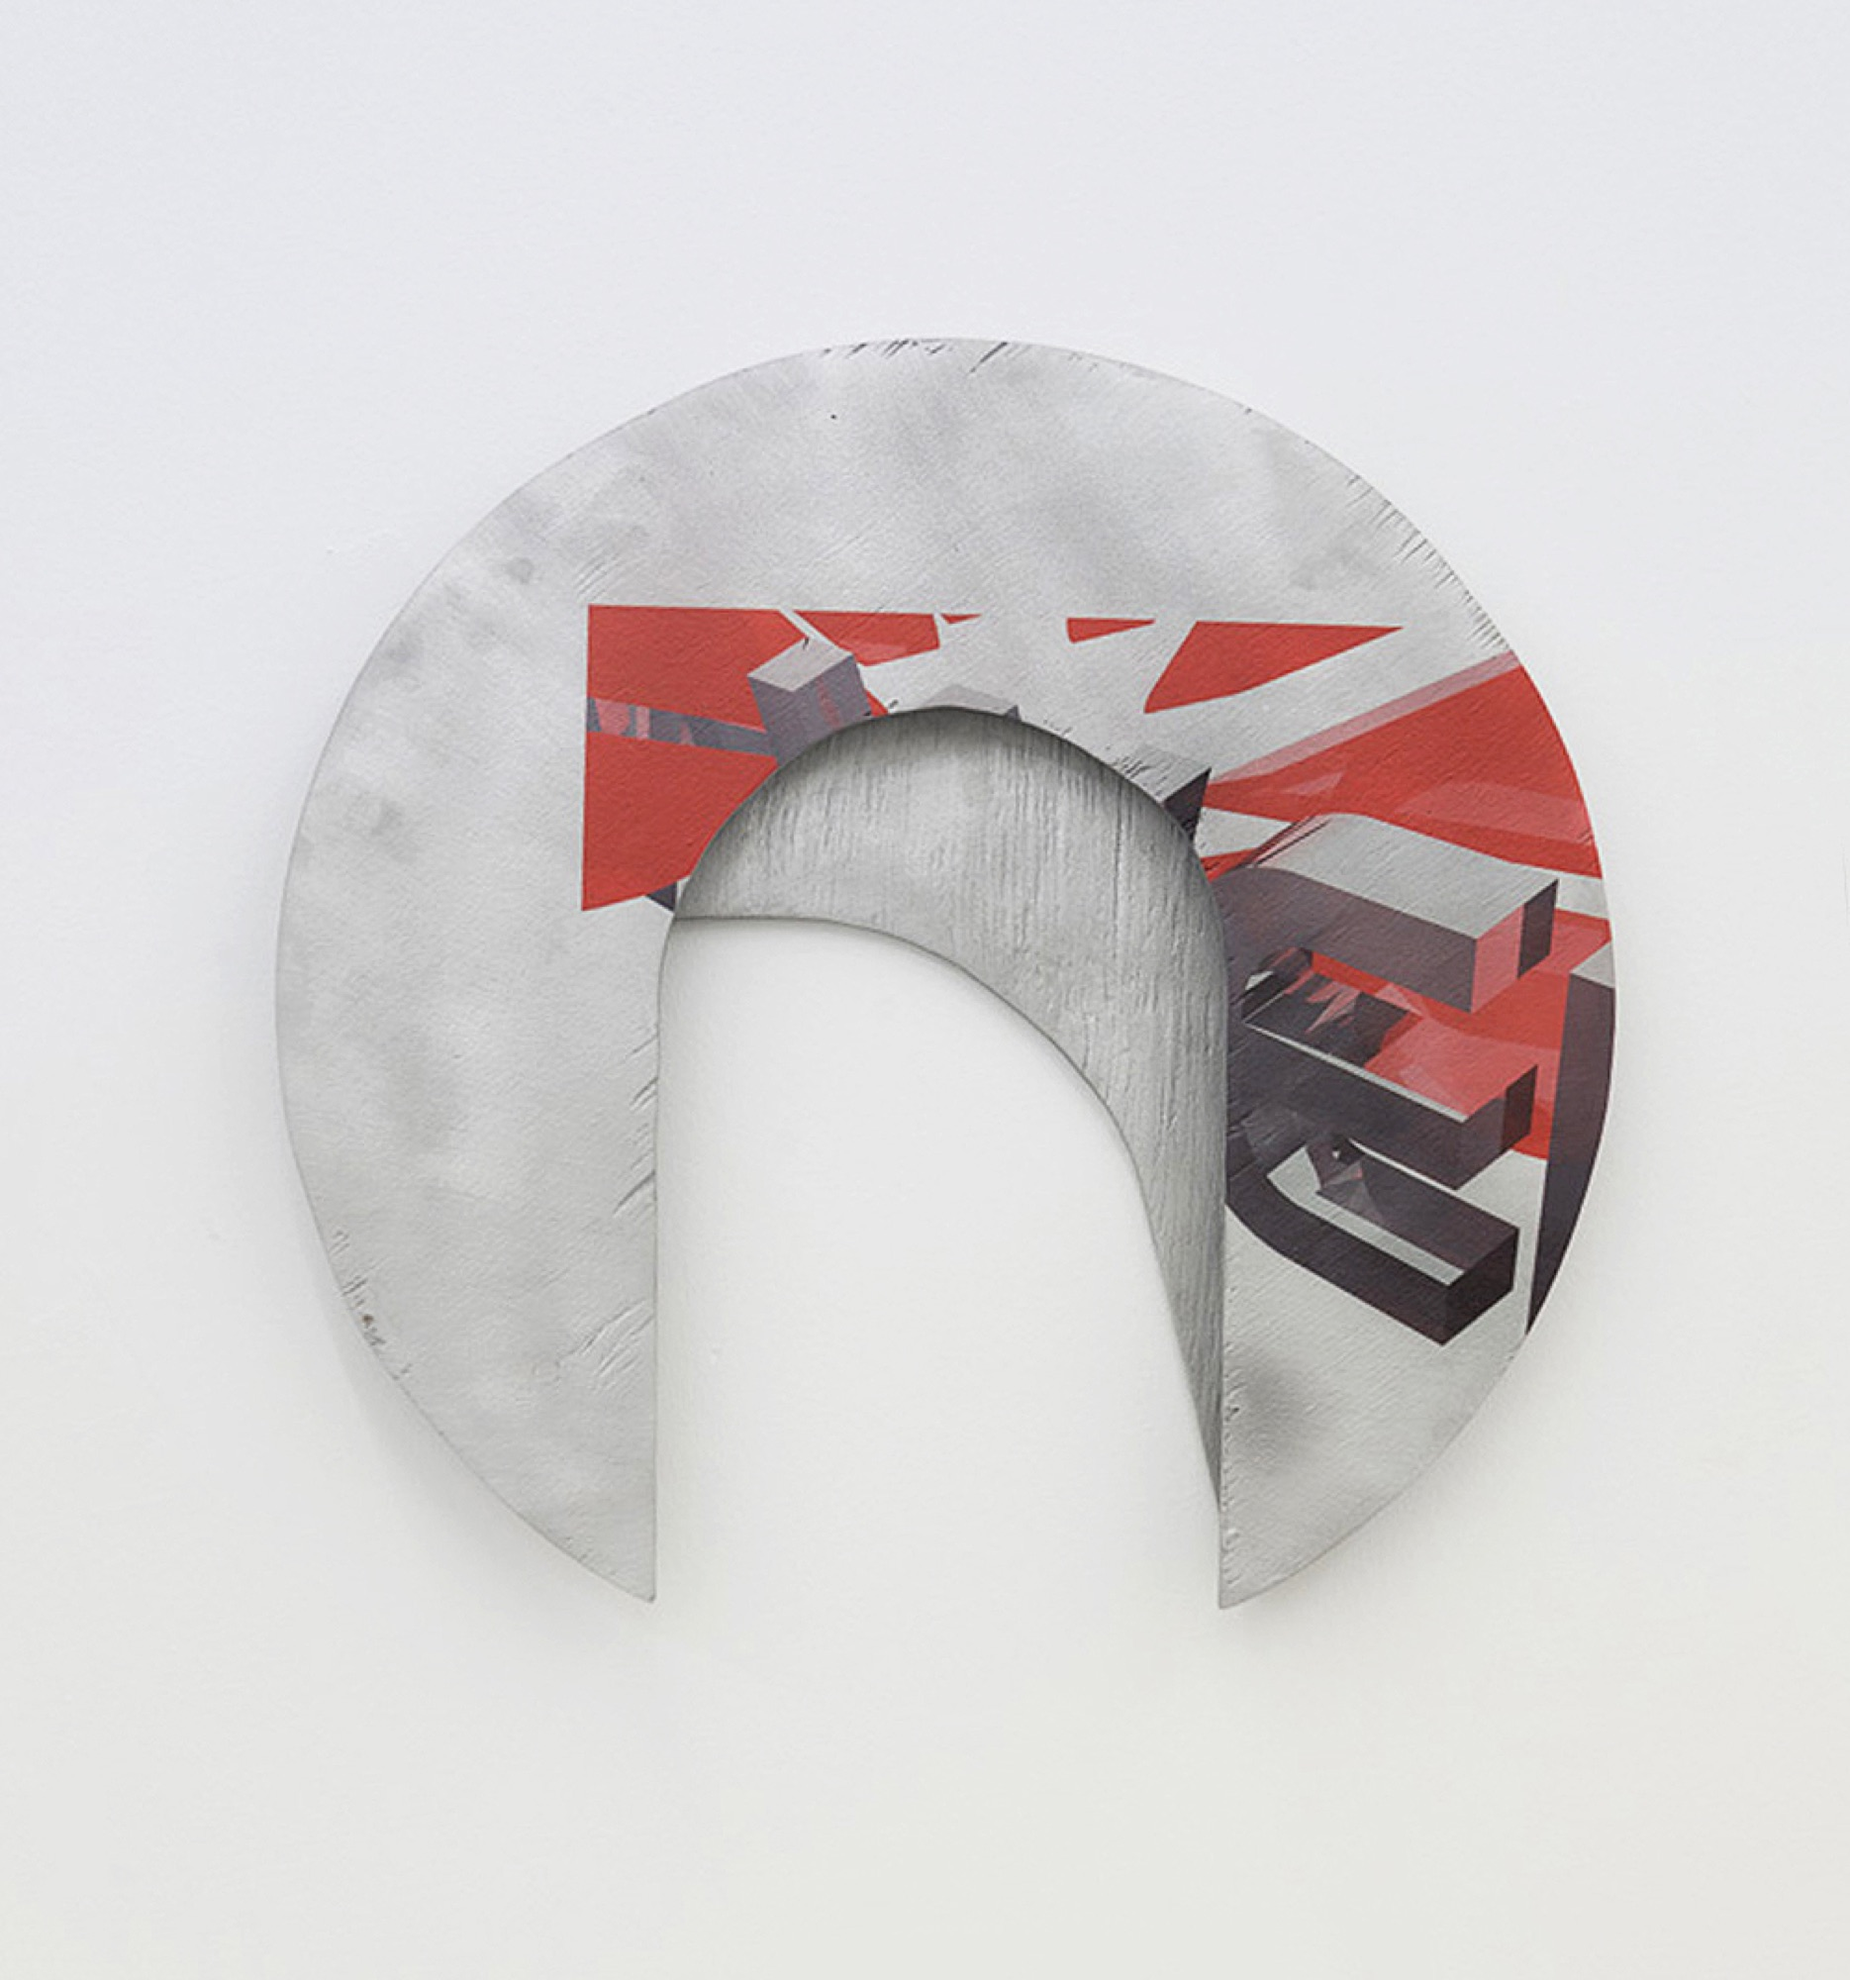
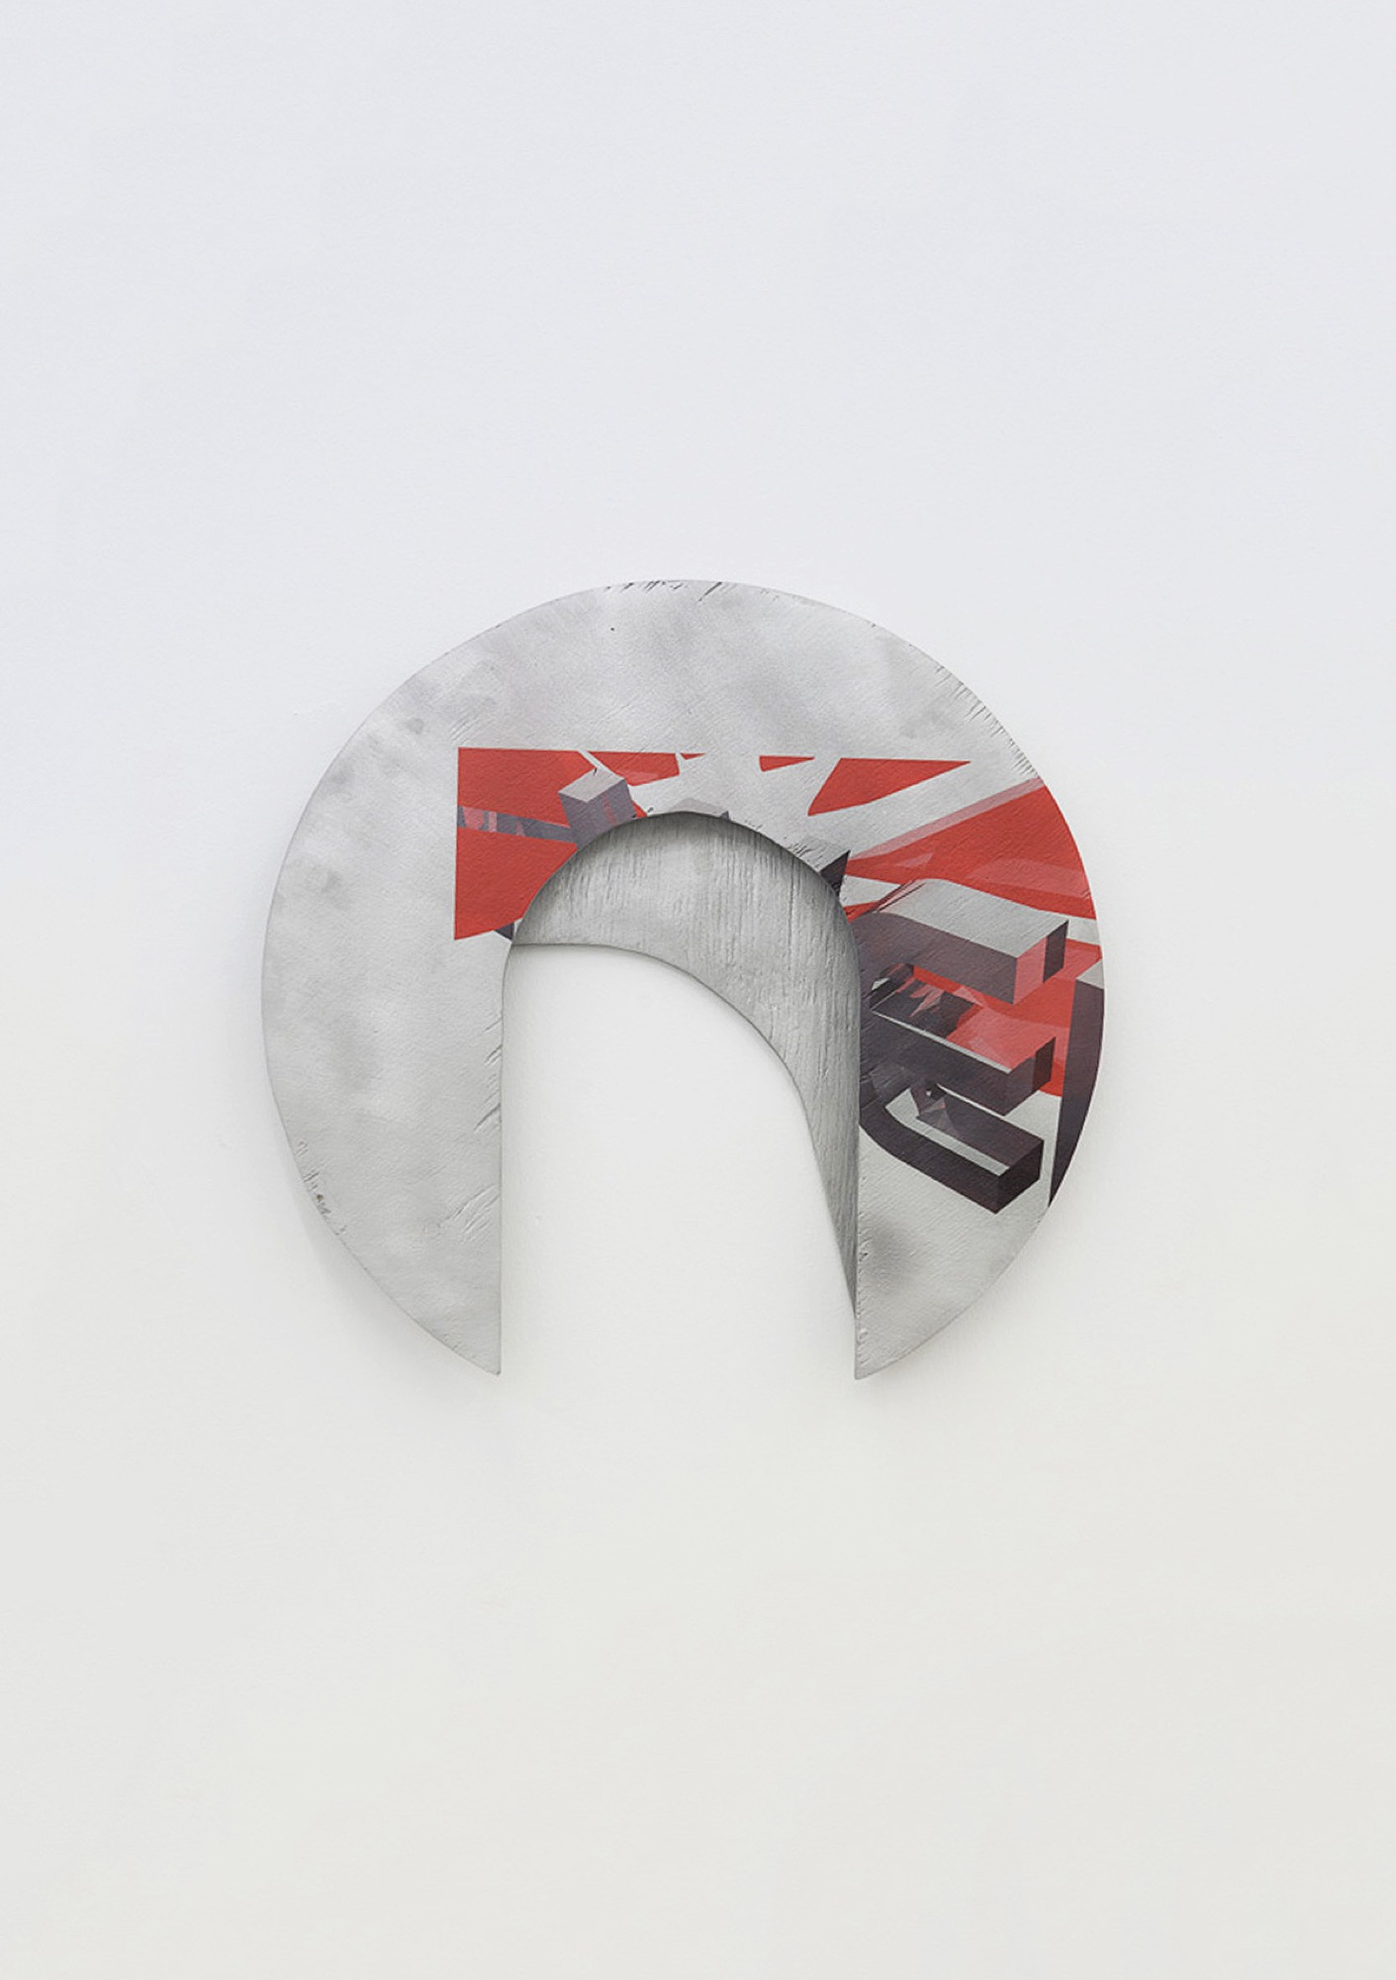
Regenerate 230-07r/08r/10r thumbs; bump cache-bust; move text block up one line
All five 230-xx files now 1200x1700. Thumbnails for 07r, 08r, 10r
regenerated (06r and 09r were done in previous commit). Added ?v=2 to
the three newly updated files.

Also moved the artwork-details text block up one line: bottom 18→33px
on desktop, and removed the mobile-specific translateY(15px) downward
offset (replaced with the same 33px base).

Changed region(s): [[0.1247, 0.155, 0.8731, 0.837]]

diff --git a/index.html b/index.html
@@ -149,7 +149,7 @@
             padding: 0;
             margin-top: 0;
             position: fixed; 
-            bottom: 18px;
+            bottom: 33px;
             right: 18px;
             width: calc(100vw - 36px);
             z-index: 200000 !important;
@@ -233,8 +233,7 @@
 
         @media screen and (max-width: 900px), (hover: none) and (pointer: coarse) {
             .artwork-details {
-                bottom: calc(env(safe-area-inset-bottom, 0px) + 18px);
-                transform: translateY(15px); /* one line-height further down, mobile only */
+                bottom: calc(env(safe-area-inset-bottom, 0px) + 33px);
             }
             .artwork-container img,
             .artwork-container video {
@@ -1208,16 +1207,16 @@
 <!-- cms-item-start -->
             <!-- primary page identifier: data-page -->
             <!-- Tall Size -->
-            <a class="tall" onclick="showArtworkPage(this, 'image')" data-file="230-07r_edit.jpg" data-page="109">
-                <img src="thumbs/230-07r_edit.jpg" alt="Awei | 2013 | uv print on cast aluminium | 30 x 30 cm" loading="lazy">
+            <a class="tall" onclick="showArtworkPage(this, 'image')" data-file="230-07r_edit.jpg?v=2" data-page="109">
+                <img src="thumbs/230-07r_edit.jpg?v=2" alt="Awei | 2013 | uv print on cast aluminium | 30 x 30 cm" loading="lazy">
             </a>
             <!-- cms-item-end -->
 
 <!-- cms-item-start -->
             <!-- primary page identifier: data-page -->
             <!-- Tall Size -->
-            <a class="tall" onclick="showArtworkPage(this, 'image')" data-file="230-10r_edit.jpg" data-page="110">
-                <img src="thumbs/230-10r_edit.jpg" alt="Faro | 2013 | uv print on cast aluminium | 30 x 30 cm" loading="lazy">
+            <a class="tall" onclick="showArtworkPage(this, 'image')" data-file="230-10r_edit.jpg?v=2" data-page="110">
+                <img src="thumbs/230-10r_edit.jpg?v=2" alt="Faro | 2013 | uv print on cast aluminium | 30 x 30 cm" loading="lazy">
             </a>
             <!-- cms-item-end -->
 
@@ -1232,8 +1231,8 @@
 <!-- cms-item-start -->
             <!-- primary page identifier: data-page -->
             <!-- Tall Size -->
-            <a class="tall" onclick="showArtworkPage(this, 'image')" data-file="230-08r_edit.jpg" data-page="112">
-                <img src="thumbs/230-08r_edit.jpg" alt="Fan | 2013 | uv print on cast aluminium | 30 x 30 cm" loading="lazy">
+            <a class="tall" onclick="showArtworkPage(this, 'image')" data-file="230-08r_edit.jpg?v=2" data-page="112">
+                <img src="thumbs/230-08r_edit.jpg?v=2" alt="Fan | 2013 | uv print on cast aluminium | 30 x 30 cm" loading="lazy">
             </a>
             <!-- cms-item-end -->
 
